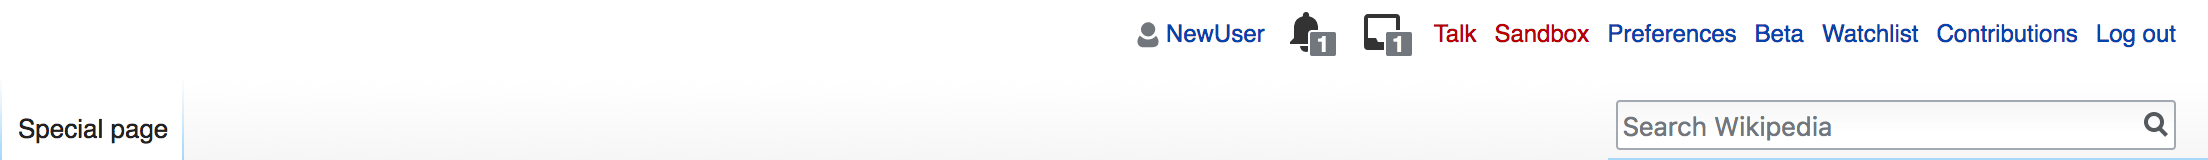
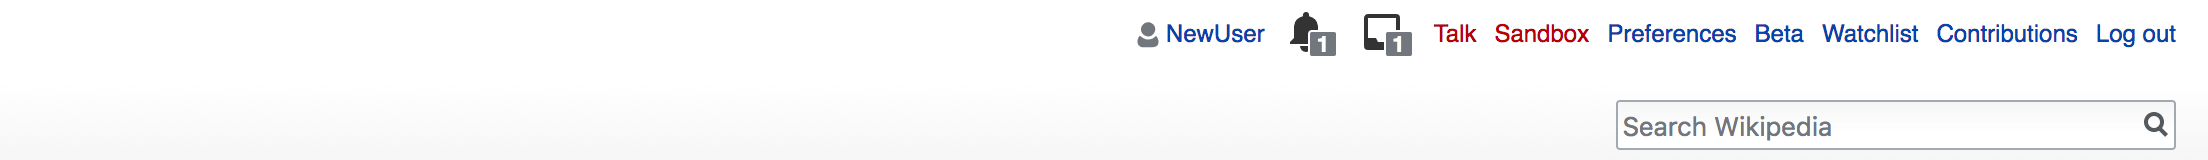
updated test

Changed region(s): [[0.0, 0.75, 0.0938, 0.9062], [0.7188, 0.9688, 1.0, 1.0]]

diff --git a/welcome-survey/css/WMFstylelite.css b/welcome-survey/css/WMFstylelite.css
@@ -1,0 +1,71 @@
+body {
+  background-color: #f6f6f6;
+}
+
+.mw-body {
+    margin-left: 168px;
+    border: 1px solid #a7d7f9;
+    border-right-width: 0;
+    margin-top: 80px;
+    padding: 1em;
+    background-color: #ffffff;
+    color: #222222;
+    direction: ltr;
+    display: block;
+  }
+
+#mw-navigation {
+  position: inherit;
+  display: block;
+}
+
+#mw-head {
+    position: absolute;
+    top: 0;
+    right: 0;
+    width: 100%;
+}
+
+#left-navigation {
+  float: left;
+  position: absolute;
+  margin-left: 150px;
+  margin-top: 52px;
+  background: none;
+}
+
+#special-tab {
+  margin-left: 2em;
+  padding: 8px 1em;
+  border: solid 1px #a7d7f9;
+  background-color: #fff;
+  background: -moz-linear-gradient(top, rgba(250,250,250,1) 0%, rgba(255,255,255,1) 50%); /* FF3.6-15 */
+  background: -webkit-linear-gradient(top, rgba(250,250,250,1) 0%,rgba(255,255,255,1) 50%); /* Chrome10-25,Safari5.1-6 */
+  background: linear-gradient(to bottom, rgba(250,250,250,1) 0%,rgba(255,255,255,1) 50%); /* W3C, IE10+, FF16+, Chrome26+, Opera12+, Safari7+ */
+  filter: progid:DXImageTransform.Microsoft.gradient( startColorstr='#fafafa', endColorstr='#ffffff',GradientType=0 ); /* IE6-9 */
+  border-bottom: 0;
+  border-top: 0;
+  font-size: 12.8px;
+  font-family: sans-serif;
+  color: #222;
+}
+
+#right-navigation {
+  float: right;
+  margin-left: 10em;
+}
+
+#mw-panel {
+    font-size: inherit;
+    position: absolute;
+    top: 0;
+    width: 10em;
+    left: 0;
+  }
+
+.footer {
+  margin-left: 10em;
+  margin-top: 0;
+  padding: 0.75em;
+  direction: ltr;
+}

diff --git a/welcome-survey/index.html b/welcome-survey/index.html
@@ -8,15 +8,28 @@
 </head>
 
 <body>
-    <header>
-      <div>
-        <h1> Test survey</h1>
+    <div id="content" class="mw-body" role="main">
+        <div>
+          <h1> Test survey</h1>
+        </div>
+    </div>
+    <div id="mw-navigation">
+      <div id="mw-head">
+        <div id="left-navigation">
+	          <div id="special-tab">Special</div>
+					</div>
+          <div id="right-navigation">
+          <img alt="mw-head image" src="images/mw-head-base.png" height="80px" width="1104px">
+        </div>
       </div>
-    </header>
-    <section>
-    </section>
 
-    <footer>
+      <div id="mw-panel">
+        <img alt="mw-panel image" src="images/mw-panel.png" height="800px" width="176px">
+      </div>
+    </div>
+
+    <footer id="footer" class="footer">
+      <img alt="footer image" src="images/mw-footer.png" height="80px" width="1104px">
     </footer>
 </body>
 </html>
